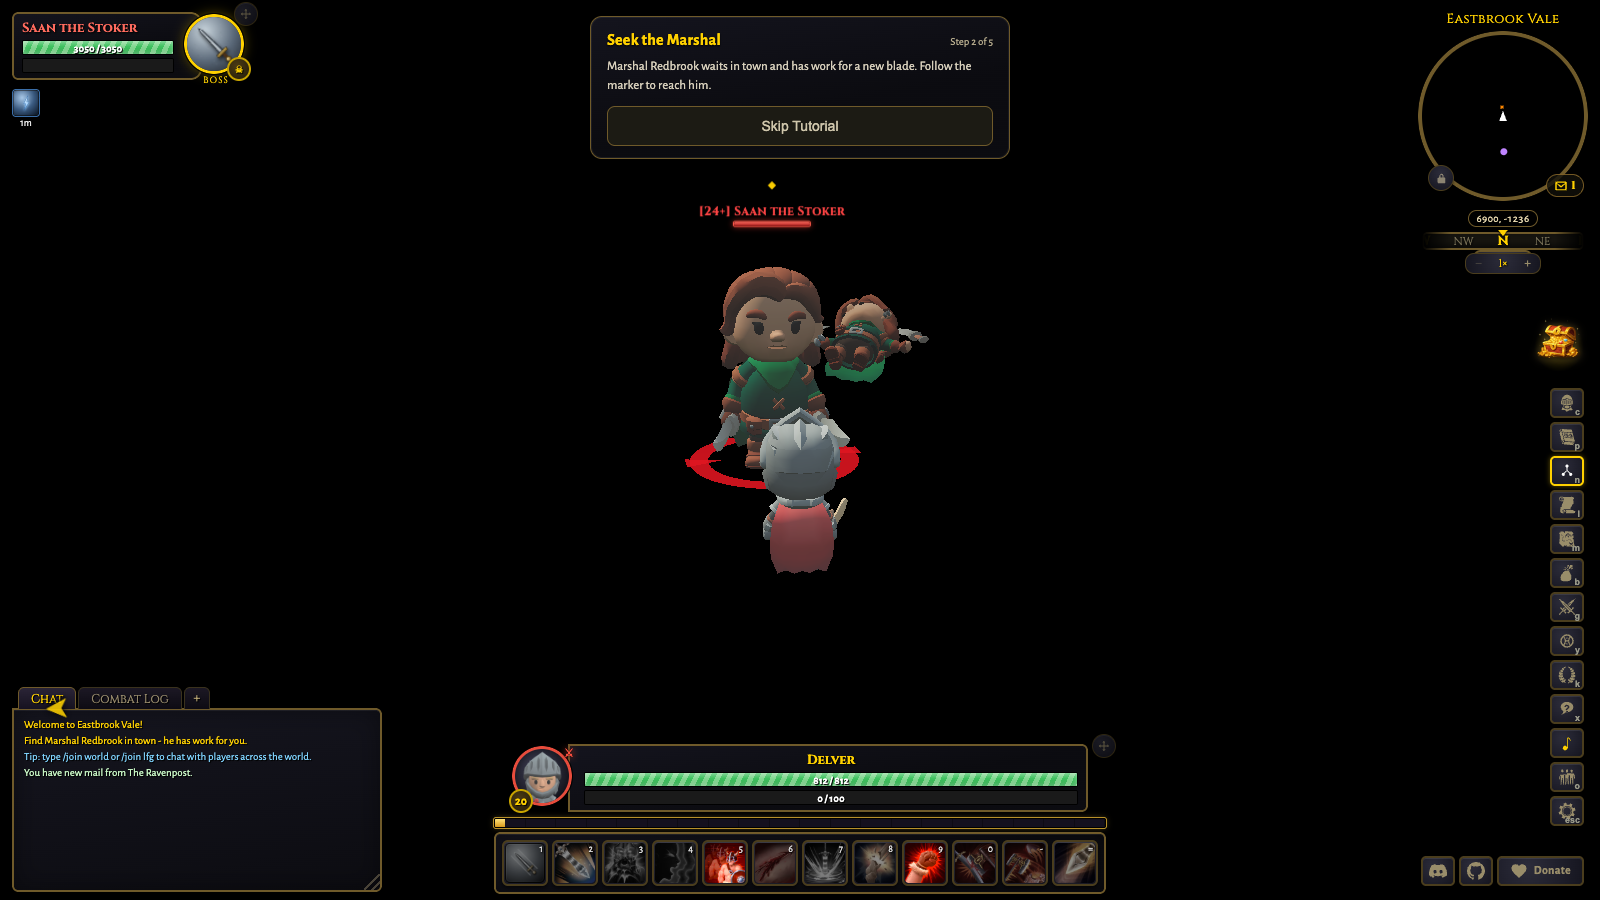
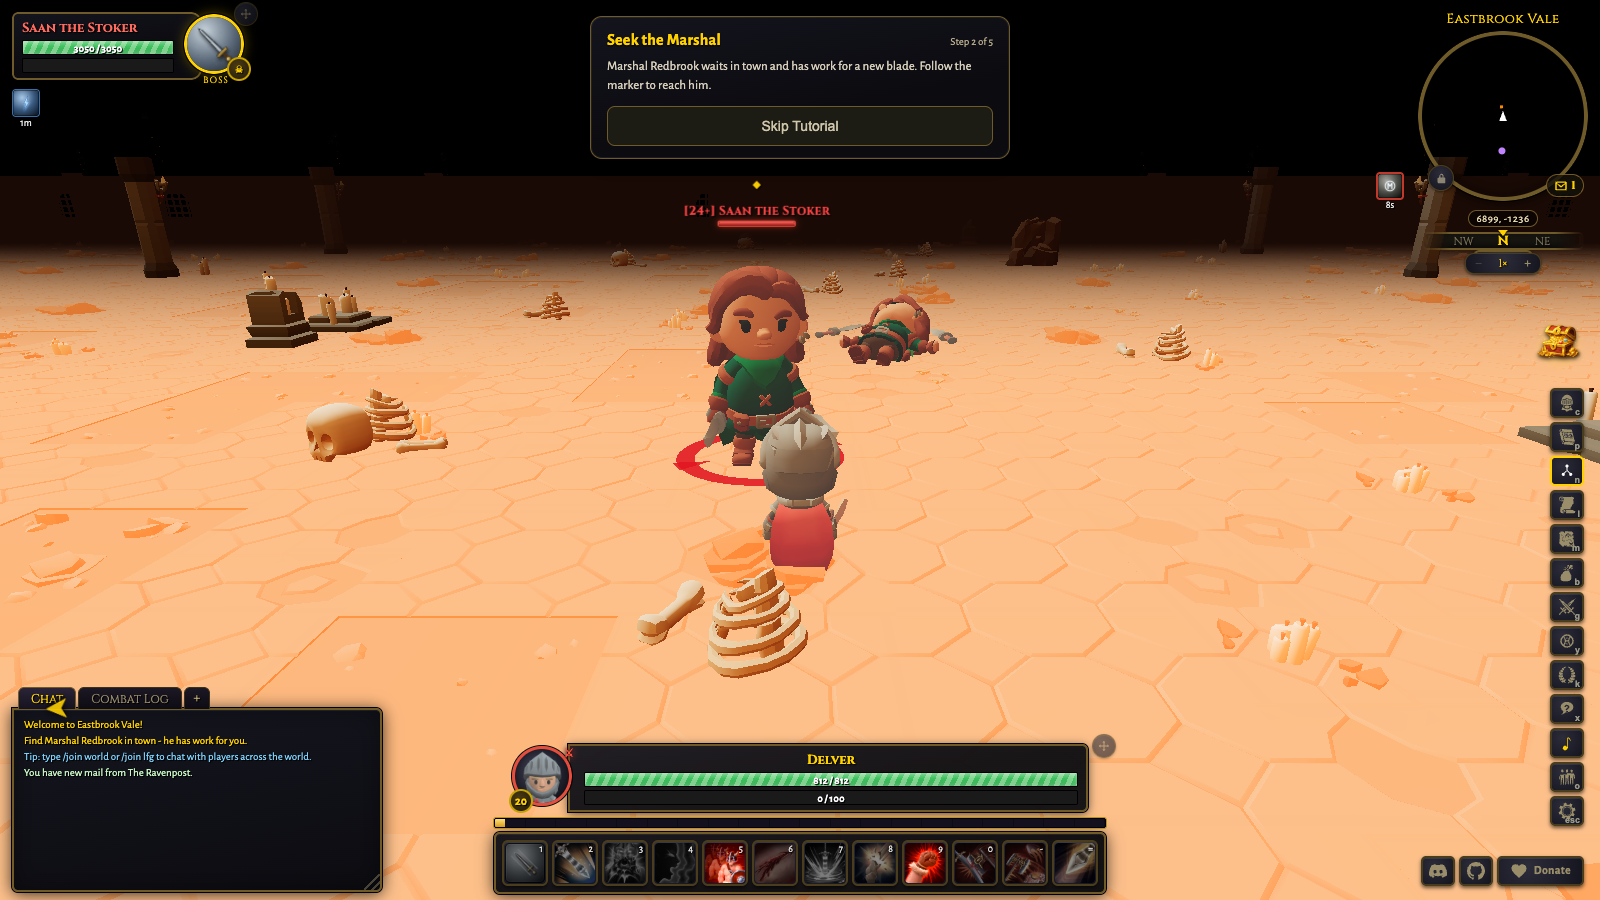
feat(render): warm lit Undermount interior (lighting profile + emissive floor)
The wings were inheriting the dark crypt lighting mode, so the chamber rendered
as a black void. Adds a dedicated warm, brighter `undermount` scene-lighting mode
in renderer.ts (its own sun/hemisphere/env intensities plus a warm molten fog),
alongside an emissive molten floor in dungeon.ts, so the wing reads as a lit forge
instead of a crypt. Screenshots refreshed: the lit chamber (02), the seal banner
(01), and Kiln Fury on the survivor after Vosh dies (03).

diff --git a/src/render/renderer.ts b/src/render/renderer.ts
@@ -271,6 +271,18 @@ const YUMI_MAZE_SUN_INTENSITY = 1.2;
 const YUMI_MAZE_HEMI_INTENSITY = 0.42;
 const YUMI_MAZE_ENV_INTENSITY = 0.28;
 const YUMI_MAZE_RIM_BOOST = 1.7;
+// The Undermount is a molten forge chamber, not a crypt. Warm ambient
+// light keeps its large wings readable while torches retain contrast.
+const UNDERMOUNT_SUN_INTENSITY = 0.9;
+const UNDERMOUNT_HEMI_INTENSITY = 0.6;
+const UNDERMOUNT_ENV_INTENSITY = 0.16;
+const UNDERMOUNT_RIM_BOOST = 1.8;
+const UNDERMOUNT_HEMI_SKY_COLOR = 0xffb060;
+const UNDERMOUNT_HEMI_GROUND_COLOR = 0x3a1206;
+const UNDERMOUNT_INSTANCE_HALF_WIDTH = 250;
+const UNDERMOUNT_INSTANCE_XS = DUNGEON_LIST.filter(
+  (dungeon) => dungeon.interior === 'undermount',
+).map((dungeon) => instanceOrigin(dungeon.index, 0).x);
 const RENDERER_PHASE_SAMPLE_LIMIT = 720;
 const RENDER_DIAGNOSTICS_SAMPLE_MS = 2000;
 const RENDER_DIAGNOSTICS_IDLE_TIMEOUT_MS = 1000;
@@ -3713,6 +3725,7 @@ export class Renderer {
     | 'dungeon'
     | 'temple'
     | 'nythraxis'
+    | 'undermount'
     | 'delve'
     | 'yumiMaze'
     | 'underwater'
@@ -3826,6 +3839,16 @@ export class Renderer {
     // non-zero pitch origin (the real Sowfield match is {0,0}).
     const po = this.sim.cupInfo?.match?.origin;
     const inPractice = !!po && (po.x !== 0 || po.z !== 0);
+    // Undermount origins sit inside the broad Delve and Yumi x-bands. Resolve
+    // their narrower dungeon bands first so those coarse checks do not claim them.
+    let inUndermountBand = false;
+    if (inside) {
+      for (const ox of UNDERMOUNT_INSTANCE_XS) {
+        if (Math.abs(px - ox) >= UNDERMOUNT_INSTANCE_HALF_WIDTH) continue;
+        inUndermountBand = true;
+        break;
+      }
+    }
     if (inPractice) {
       const idx = this.practiceSkyVariant();
       this.valeCupSky.setVariant(idx);
@@ -3834,9 +3857,9 @@ export class Renderer {
     } else {
       this.valeCupSky.mesh.visible = false;
     }
-    if (isDelvePos(px) && !inPractice) {
+    if (isDelvePos(px) && !inPractice && !inUndermountBand) {
       this.ensureDelveInteriorsNear(px, pz);
-    } else if (inside && isYumiMazePos(px)) {
+    } else if (inside && isYumiMazePos(px) && !inUndermountBand) {
       // build the Protect Yumi maze copy the player was matched into; the
       // update() call each frame lives in sync() (beacon anchors)
       for (let i = 0; i < YUMI_MAZE_SLOT_COUNT; i++) {
@@ -3881,12 +3904,17 @@ export class Renderer {
     }
     // the Drowned Temple reads as submerged: a teal murk instead of the
     // crypt's near-black, so its flooded halls feel underwater, not just dark
-    const inDelve = inside && isDelvePos(px);
-    const inYumiMaze = inside && isYumiMazePos(px);
+    const inDelve = inside && !inUndermountBand && isDelvePos(px);
+    const inYumiMaze = inside && !inUndermountBand && isYumiMazePos(px);
     const interior =
-      inside && !inDelve && !inYumiMaze && !isArenaPos(px) ? dungeonAt(px)?.interior : null;
+      inside && !inDelve && !inYumiMaze && !isArenaPos(px)
+        ? inUndermountBand
+          ? 'undermount'
+          : dungeonAt(px)?.interior
+        : null;
     const inTemple = interior === 'temple';
     const inNythraxis = interior === 'nythraxis';
+    const inUndermount = interior === 'undermount';
     const desired = inPractice
       ? 'practice'
       : inDelve
@@ -3897,11 +3925,13 @@ export class Renderer {
             ? 'temple'
             : inNythraxis
               ? 'nythraxis'
-              : inside
-                ? 'dungeon'
-                : camY < waterLevelAt(px, pz) - 0.05
-                  ? 'underwater'
-                  : 'outdoor';
+              : inUndermount
+                ? 'undermount'
+                : inside
+                  ? 'dungeon'
+                  : camY < waterLevelAt(px, pz) - 0.05
+                    ? 'underwater'
+                    : 'outdoor';
     const fog = this.scene.fog as THREE.Fog;
     if (desired !== this.fogState) {
       this.fogState = desired;
@@ -3919,6 +3949,10 @@ export class Renderer {
         fog.color.setHex(0x020106);
         fog.near = 20;
         fog.far = 80;
+      } else if (desired === 'undermount') {
+        fog.color.setHex(0x1a0a05);
+        fog.near = 22;
+        fog.far = 95;
       } else if (desired === 'delve') {
         // the collapsed reliquary breathes a warm ember murk, dried-blood
         // charcoal, tighter than the overworld crypt's cold near-black, so the
@@ -3953,6 +3987,9 @@ export class Renderer {
       // interiors must not leak daylight: drop sun + sky ambient + IBL
       // underground so the torch point lights own the scene; restore outside.
       // The rim glow cranks up instead — silhouettes must split from the murk.
+      const moltenForge = desired === 'undermount';
+      this.hemi.color.setHex(moltenForge ? UNDERMOUNT_HEMI_SKY_COLOR : 0xdcefff);
+      this.hemi.groundColor.setHex(moltenForge ? UNDERMOUNT_HEMI_GROUND_COLOR : 0x465f39);
       if (!this.lowGfx) {
         const mazeNight = desired === 'yumiMaze';
         const underground =
@@ -3960,26 +3997,34 @@ export class Renderer {
           desired === 'temple' ||
           desired === 'nythraxis' ||
           desired === 'delve';
-        this.sun.intensity = mazeNight
-          ? YUMI_MAZE_SUN_INTENSITY
-          : underground
-            ? DUNGEON_SUN_INTENSITY
-            : SUN_INTENSITY;
-        this.hemi.intensity = mazeNight
-          ? YUMI_MAZE_HEMI_INTENSITY
-          : underground
-            ? DUNGEON_HEMI_INTENSITY
-            : HEMI_INTENSITY;
-        this.scene.environmentIntensity = mazeNight
-          ? YUMI_MAZE_ENV_INTENSITY
-          : underground
-            ? DUNGEON_ENV_INTENSITY
-            : this.envOutdoorIntensity;
-        sharedUniforms.uRimBoost.value = mazeNight
-          ? YUMI_MAZE_RIM_BOOST
-          : underground
-            ? DUNGEON_RIM_BOOST
-            : 1;
+        this.sun.intensity = moltenForge
+          ? UNDERMOUNT_SUN_INTENSITY
+          : mazeNight
+            ? YUMI_MAZE_SUN_INTENSITY
+            : underground
+              ? DUNGEON_SUN_INTENSITY
+              : SUN_INTENSITY;
+        this.hemi.intensity = moltenForge
+          ? UNDERMOUNT_HEMI_INTENSITY
+          : mazeNight
+            ? YUMI_MAZE_HEMI_INTENSITY
+            : underground
+              ? DUNGEON_HEMI_INTENSITY
+              : HEMI_INTENSITY;
+        this.scene.environmentIntensity = moltenForge
+          ? UNDERMOUNT_ENV_INTENSITY
+          : mazeNight
+            ? YUMI_MAZE_ENV_INTENSITY
+            : underground
+              ? DUNGEON_ENV_INTENSITY
+              : this.envOutdoorIntensity;
+        sharedUniforms.uRimBoost.value = moltenForge
+          ? UNDERMOUNT_RIM_BOOST
+          : mazeNight
+            ? YUMI_MAZE_RIM_BOOST
+            : underground
+              ? DUNGEON_RIM_BOOST
+              : 1;
       }
       return;
     }

diff --git a/src/render/dungeon.ts b/src/render/dungeon.ts
@@ -43,7 +43,7 @@ import {
   placeMarshTombs,
   placeMarshWallDressing,
 } from './delve_marsh_dressing';
-import { sharedUniforms } from './gfx';
+import { sharedUniforms, surfaceMat } from './gfx';
 import { radialGlowTexture } from './textures';
 
 const FLAME_EMISSIVE_HIGH = 2.2;
@@ -52,6 +52,8 @@ const FLAME_EMISSIVE_HIGH = 2.2;
 const DUNGEON_LIGHT_Y = 6.4;
 const DUNGEON_LIGHT_INTENSITY = 46;
 const DUNGEON_LIGHT_DISTANCE = 34;
+const UNDERMOUNT_FLOOR_EMISSIVE = 0xff5a1e;
+const UNDERMOUNT_FLOOR_EMISSIVE_INTENSITY = 1.2;
 
 const MODULE_SCALE = 2; // KayKit walls are 4u tall/long -> 8u at our room scale
 const FLOOR_CELL = 4; // kit floor tiles are 4x4 at MODULE_SCALE 1
@@ -583,6 +585,7 @@ export class DungeonInteriors {
   private glowDecalMats = new Map<number, THREE.MeshBasicMaterial>();
   private flameGeo: THREE.BufferGeometry | null = null;
   private packMats = new Map<Pack, THREE.Material>();
+  private undermountFloorMats = new Map<Pack, THREE.Material>();
   // delve_marsh / delve_marsh_apse wall+pillar and floor tints: clones of
   // packMats keyed by pack, built once and reused for every marsh room this
   // instance draws (see marshMaterial). Never touched by any other variant.
@@ -949,6 +952,24 @@ export class DungeonInteriors {
     return mat;
   }
 
+  private undermountFloorMaterial(pack: Pack): THREE.Material {
+    let mat = this.undermountFloorMats.get(pack);
+    if (mat) return mat;
+    // Keep the KayKit atlas detail while making every floor tile visible
+    // without relying on the underground torch rig.
+    const src = packSourceMaterial.get(pack);
+    mat = surfaceMat({
+      color: src?.color.getHex() ?? 0x777788,
+      map: src?.map ?? undefined,
+      roughness: Math.max(0.9, src?.roughness ?? 0.95),
+      metalness: 0,
+      emissive: UNDERMOUNT_FLOOR_EMISSIVE,
+      emissiveIntensity: UNDERMOUNT_FLOOR_EMISSIVE_INTENSITY,
+    });
+    this.undermountFloorMats.set(pack, mat);
+    return mat;
+  }
+
   private emit(group: THREE.Group, p: Placements, variant: Variant): void {
     const isMarsh = variant === 'delve_marsh' || variant === 'delve_marsh_apse';
     for (const [kind, mats] of p.byKind) {
@@ -958,12 +979,17 @@ export class DungeonInteriors {
         console.warn(`dungeon: unknown module kind '${kind}'`);
         continue;
       }
-      // Marsh wall/pillar/floor stone gets a wet-mossy / peat tint (see
-      // marshMaterial); every other kind (banners, torches, props) and every
-      // other variant keep the plain shared pack material unchanged.
+      // Undermount floor receivers glow molten. Marsh wall/pillar/floor stone
+      // gets a wet-mossy / peat tint (see marshMaterial). All remaining kinds
+      // and variants keep the plain shared pack material unchanged.
       let mat = this.material(asset.pack);
-      if (isMarsh && WALL_PILLAR_KINDS.has(kind)) mat = this.marshMaterial(asset.pack, 'wall');
-      else if (isMarsh && RECEIVER_KINDS.has(kind)) mat = this.marshMaterial(asset.pack, 'floor');
+      if (variant === 'undermount' && RECEIVER_KINDS.has(kind)) {
+        mat = this.undermountFloorMaterial(asset.pack);
+      } else if (isMarsh && WALL_PILLAR_KINDS.has(kind)) {
+        mat = this.marshMaterial(asset.pack, 'wall');
+      } else if (isMarsh && RECEIVER_KINDS.has(kind)) {
+        mat = this.marshMaterial(asset.pack, 'floor');
+      }
       const mesh = new THREE.InstancedMesh(asset.geo, mat, mats.length);
       for (let i = 0; i < mats.length; i++) mesh.setMatrixAt(i, mats[i]);
       mesh.instanceMatrix.needsUpdate = true;
